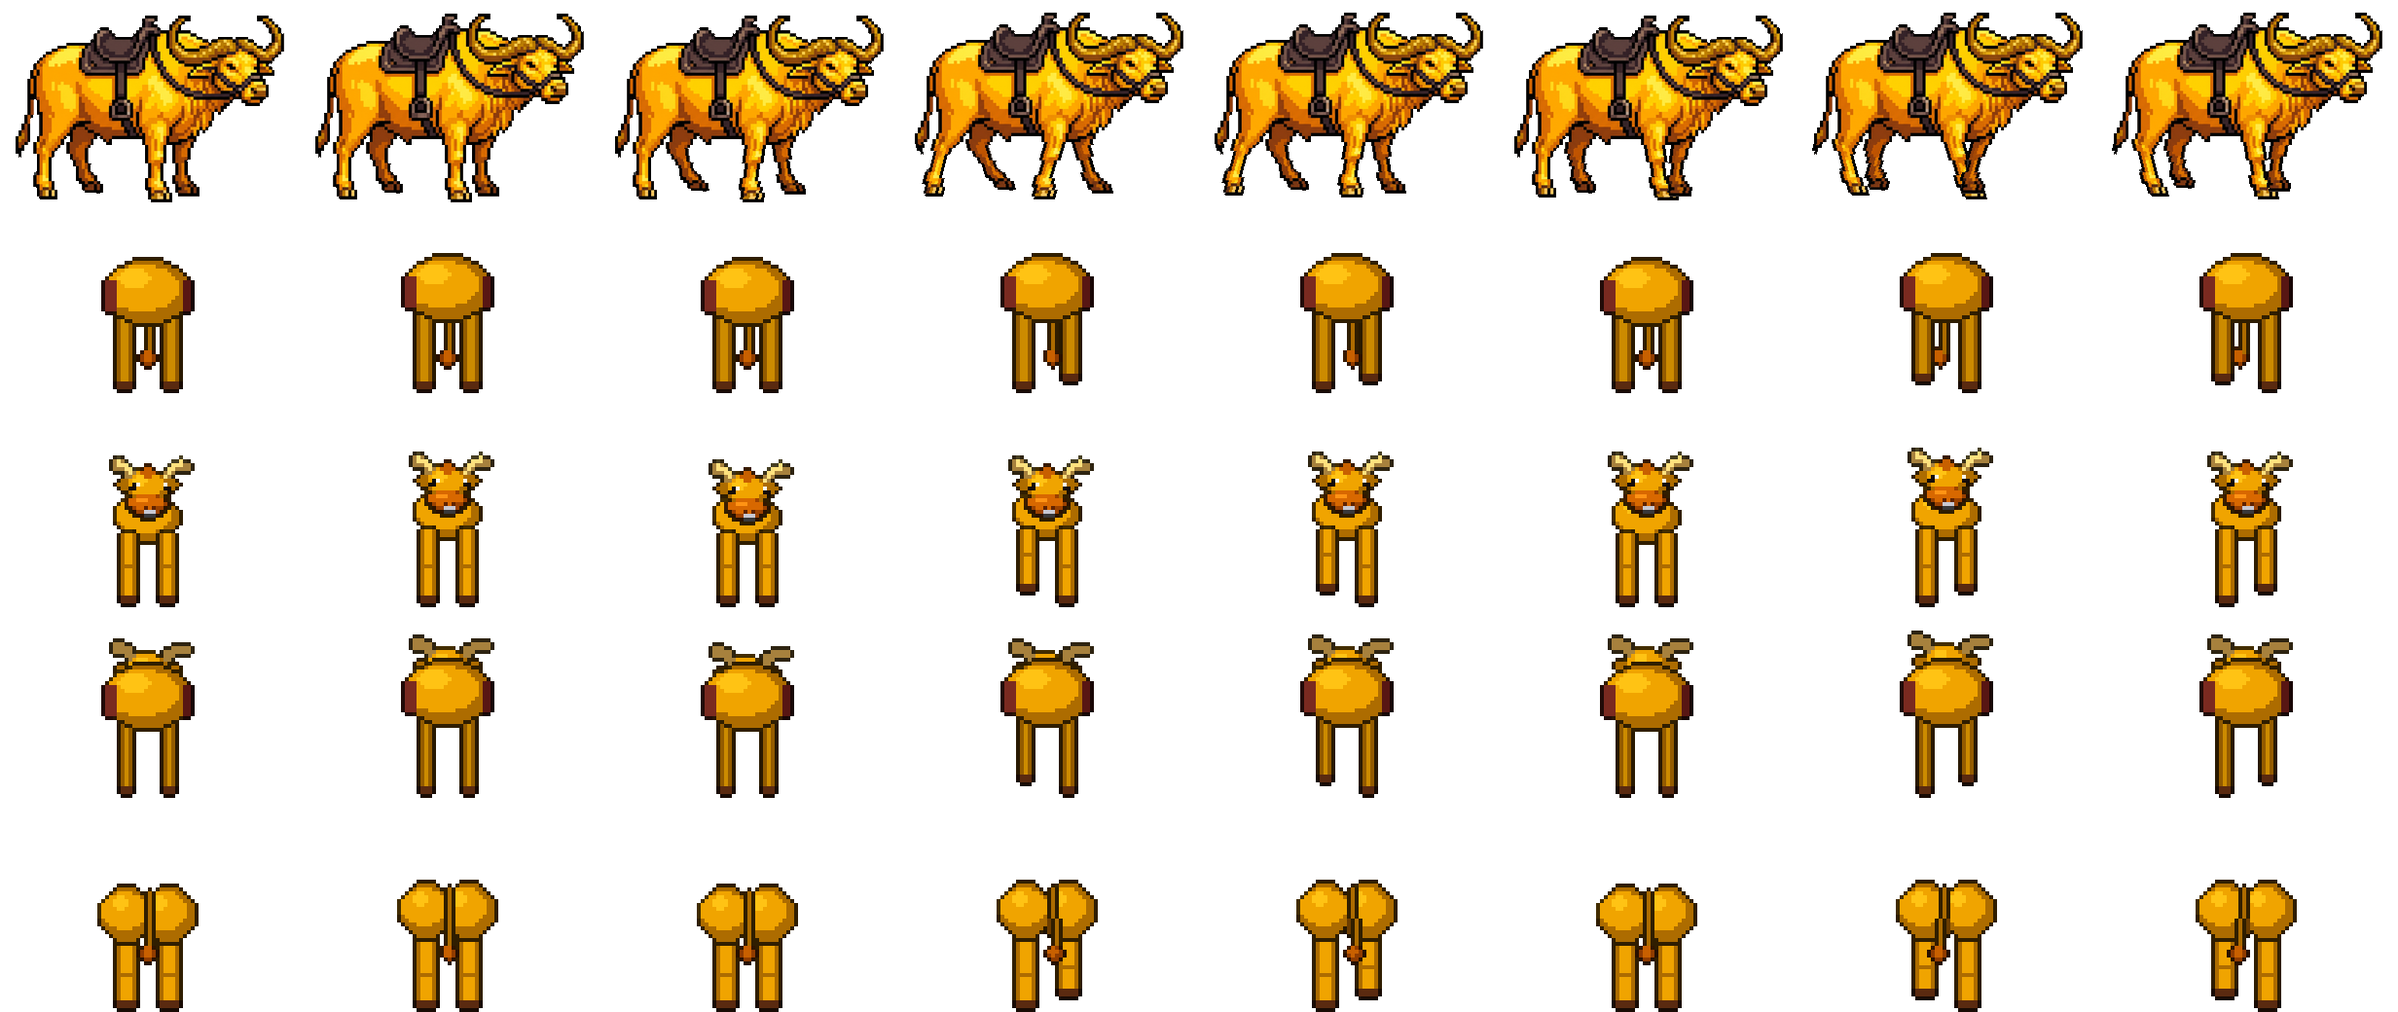
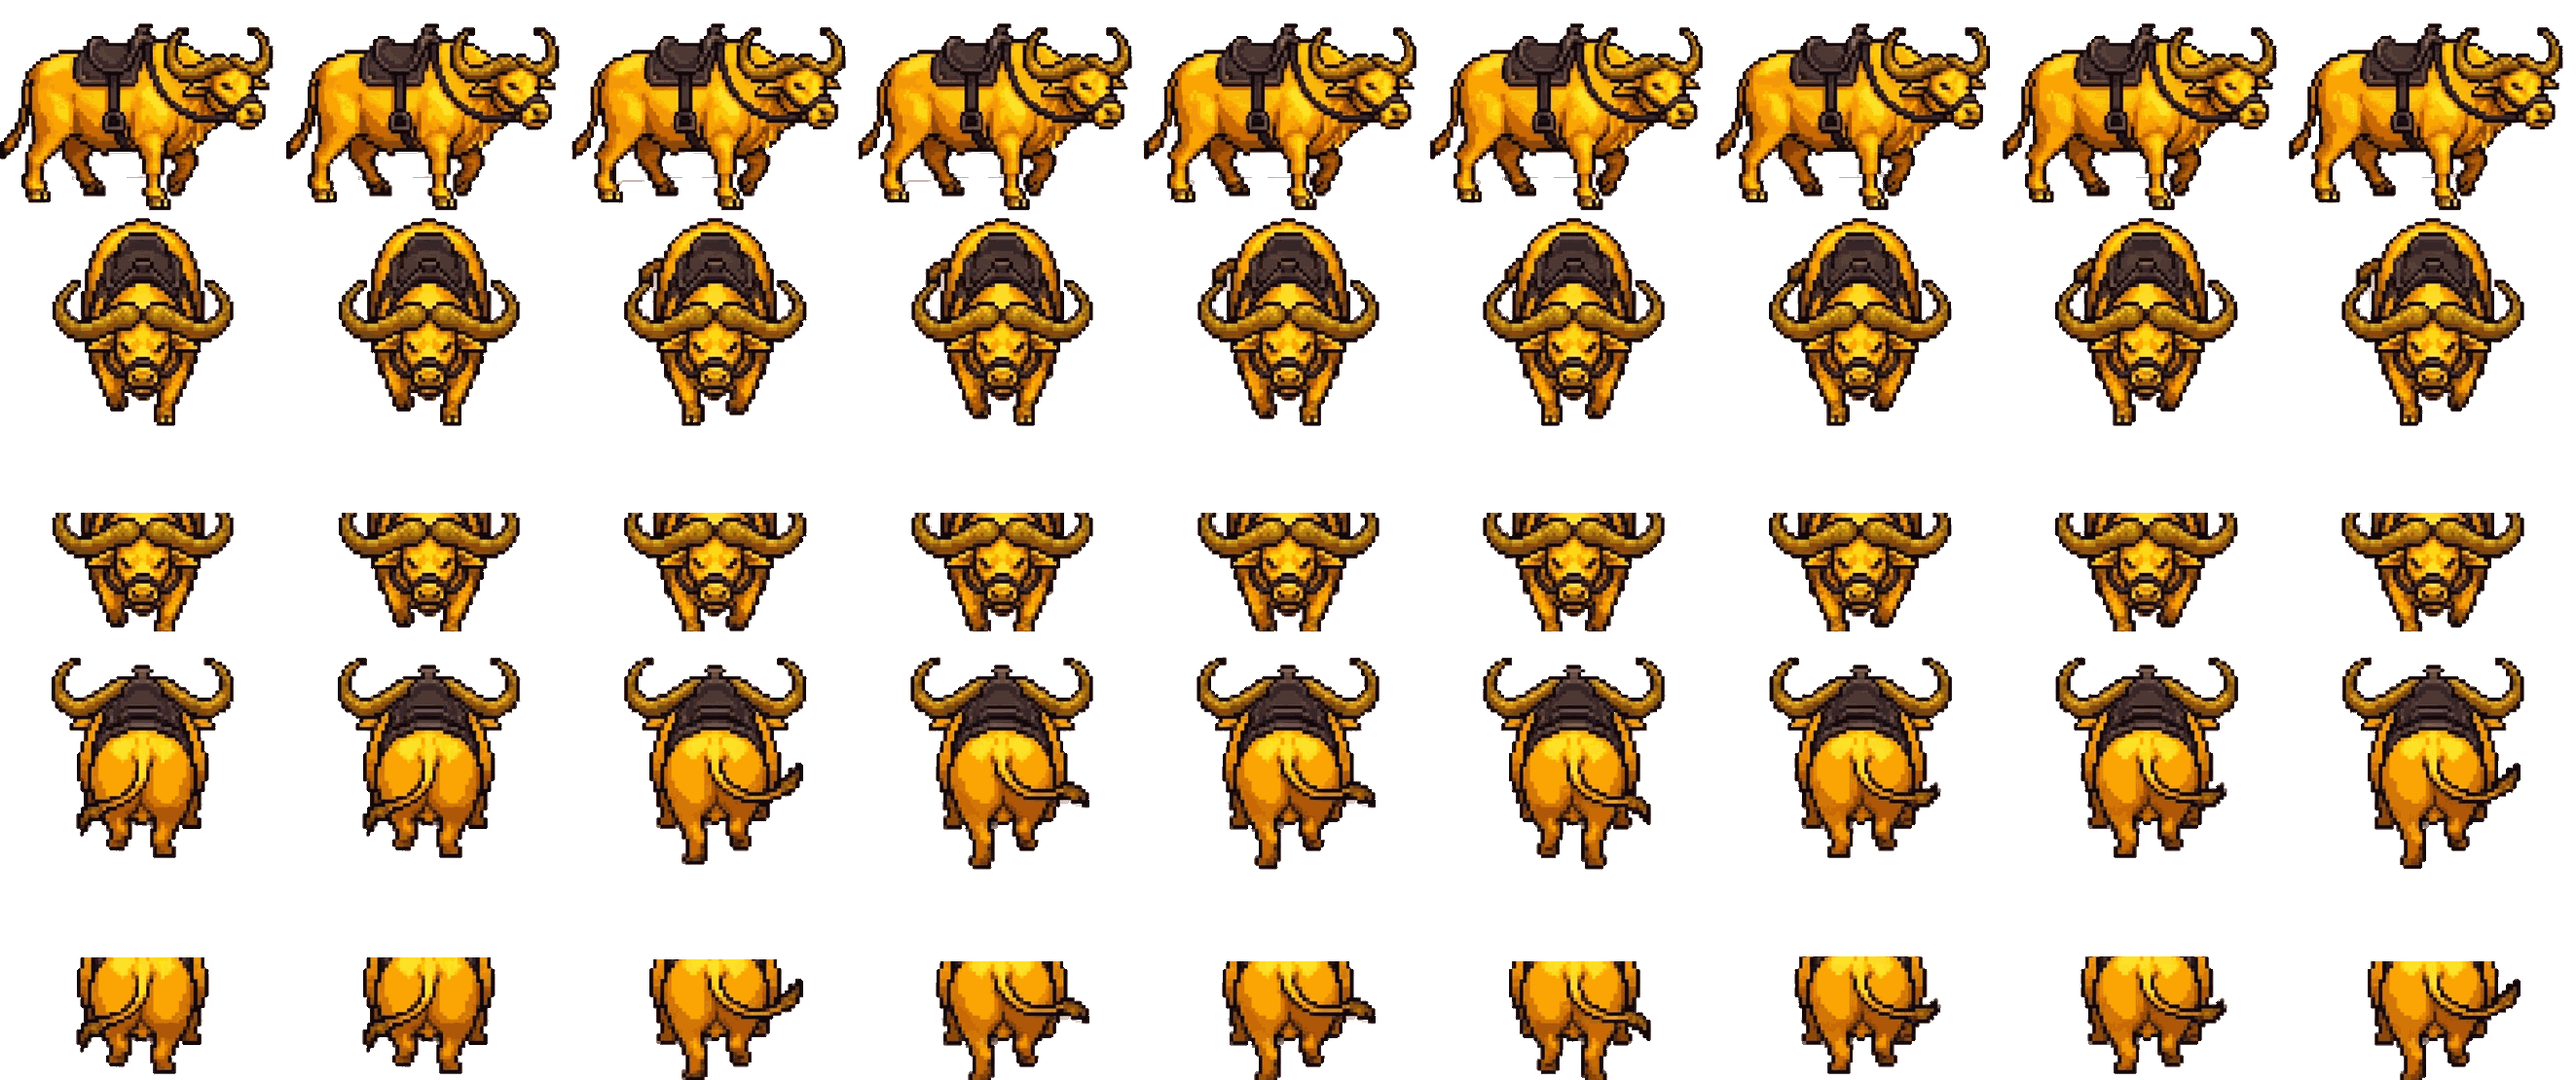
Kim Quy and Kim Nguu: hand-drawn 4-direction sprites
Per-mount front overlay region (turtle head and front legs, bull horns)
and back-view seat height (turtle rider sits on top of the shell).

Claude-Session: https://claude.ai/code/session_01AqWtbjMjwaw5KPYKGcCy7Z

diff --git a/server/data/changelog.js b/server/data/changelog.js
@@ -4,6 +4,7 @@ const CHANGELOG = [
   {
     date: '02/11/2026',
     items: [
+      '🐢 Kim Quy và Kim Ngưu có hình 4 hướng mới vẽ tay: mặt trước, sau lưng, nhìn ngang với dáng bước chậm chắc.',
       '🐉 Thanh Long và Phượng Hoàng có hình 4 hướng mới vẽ tay: dang cánh vỗ theo nhịp ở mọi hướng (cả lúc đứng yên), đuôi uốn lượn khi bay.',
       '🦄 Bạch Mã và Hỏa Kỳ Lân có hình 4 hướng mới vẽ tay: mặt trước, sau lưng, nhìn ngang với dáng chạy; bờm và đuôi đung đưa theo nhịp.',
       '🔧 Sửa Hắc Mã trông như đang bay (móng ngựa giờ chạm đất ở cả 4 hướng). Khung danh hiệu dời lên cao hơn, không còn che tên nhân vật.',

diff --git a/tools/mount_art/fourdir.py b/tools/mount_art/fourdir.py
@@ -19,6 +19,9 @@ CFG = {
     # mask='color': nền xám nhạt nhiều tông + bóng chân -> lấy điểm ảnh đậm màu/tối làm hình; fly: cánh vỗ cả lúc đứng yên
     'thanh_long': dict(h=118, front=6, back=6, side=6, seat_fx=0.50, seat_dy=8, down=0.07, cut=0.46, ftop=0.10, shadow=None, hole=(20, 60), mask='color', fly=True),
     'phuong_hoang': dict(h=122, front=6, back=6, side=6, seat_fx=0.55, seat_dy=8, down=0.12, cut=0.50, ftop=0.10, shadow=None, hole=(20, 60), mask='color', fly=True),
+    # fy/fx: vùng lớp đè người cưỡi ở hướng trước (tỉ lệ cao/rộng); rùa: chỉ đầu + chân trước, bò: cả cặp sừng rộng
+    'kim_quy': dict(h=82, front=6, back=6, side=5, seat_fx=0.52, seat_dy=6, down=0.04, cut=0.72, up=0.14, ftop=0.0, fy=(0.58, 1.0), fx=(0.15, 0.85), shadow=(159, 160, 139), hole=(20, 60)),
+    'kim_nguu': dict(h=96, front=6, back=6, side=5, seat_fx=0.45, seat_dy=6, down=0.22, cut=0.42, ftop=0.0, fy=(0.38, 0.95), fx=(0.0, 1.0), shadow=(181, 154, 145), hole=(20, 60)),
     'hoa_ky_lan': dict(h=104, front=6, back=6, side=7, seat_fx=0.47, seat_dy=8, down=0.17, cut=0.44, ftop=0.10, shadow=(147, 120, 112), hole=(26, 25)),
 }
 
@@ -114,7 +117,8 @@ def build(mid):
         seats['side'].append([round(float(px + sx), 1), round(float(py + top_at(si, sx) + cfg['seat_dy']), 1)])
         fa = np.asarray(fi).copy(); h, w = fa.shape[:2]
         ft = np.nonzero((fa[..., 3] > 0).any(1))[0][0]   # sừng / gạc trên đỉnh đầu (ftop) vẽ sau người cưỡi, không đâm lên mặt
-        m = np.zeros((h, w), bool); m[ft + int(h * cfg['ftop']):int(h * 0.62), int(w * 0.24):int(w * 0.76)] = True
+        y0, y1 = cfg.get('fy', (cfg['ftop'], 0.62)); x0f, x1f = cfg.get('fx', (0.24, 0.76))
+        m = np.zeros((h, w), bool); m[ft + int(h * y0):int(h * y1), int(w * x0f):int(w * x1f)] = True
         over = fa.copy(); over[~m] = 0; pxf = round(CW / 2 - w / 2); fo += DF
         sheet.alpha_composite(fi, (x0 + pxf, CH + fo)); sheet.alpha_composite(Image.fromarray(over, 'RGBA'), (x0 + pxf, 2 * CH + fo))
         ftop = np.nonzero((fa[..., 3] > 0).any(1))[0][0]
@@ -122,7 +126,8 @@ def build(mid):
         ba = np.asarray(bi).copy(); h2, w2 = ba.shape[:2]; cut = int(h2 * cfg['cut'])
         over2 = ba.copy(); over2[:cut] = 0; pxb = round(CW / 2 - w2 / 2); bo += DB
         sheet.alpha_composite(bi, (x0 + pxb, 3 * CH + bo)); sheet.alpha_composite(Image.fromarray(over2, 'RGBA'), (x0 + pxb, 4 * CH + bo))
-        seats['up'].append([round(CW / 2, 1), round(float(bo + cut + 2), 1)])
+        btop = np.nonzero((ba[..., 3] > 0).any(1))[0][0]   # up: chỗ ngồi tính từ đỉnh hình (rùa: trên đỉnh mai), mặc định ngay trên lớp đè
+        seats['up'].append([round(CW / 2, 1), round(float(bo + (btop + h2 * cfg['up'] if 'up' in cfg else cut + 2)), 1)])
     sheet.quantize(colors=255, method=Image.FASTOCTREE, dither=Image.NONE).save(OUT + 'mounts/' + mid + '.png', optimize=True)
     meta = json.load(open(OUT + 'mounts.json'))
     meta['per'][mid] = {'cell': [CW, CH], 'foot': [CW / 2, int(base) - 3], 'footFB': [CW / 2, int(base) - 3],

diff --git a/tools/mount_art/views.py b/tools/mount_art/views.py
@@ -482,6 +482,6 @@ def build(name):
 
 if __name__ == '__main__':
     import sys
-    names = sys.argv[1:] or [k for k in P if k not in ('hac_ma', 'bach_ma', 'hoa_ky_lan', 'thanh_long', 'phuong_hoang')]   # có ảnh 4 hướng vẽ tay: hacma.py, fourdir.py
+    names = sys.argv[1:] or [k for k in P if k not in ('hac_ma', 'bach_ma', 'hoa_ky_lan', 'thanh_long', 'phuong_hoang', 'kim_quy', 'kim_nguu')]   # có ảnh 4 hướng vẽ tay: hacma.py, fourdir.py
     for nm in names:
         build(nm); print('ok', nm)
